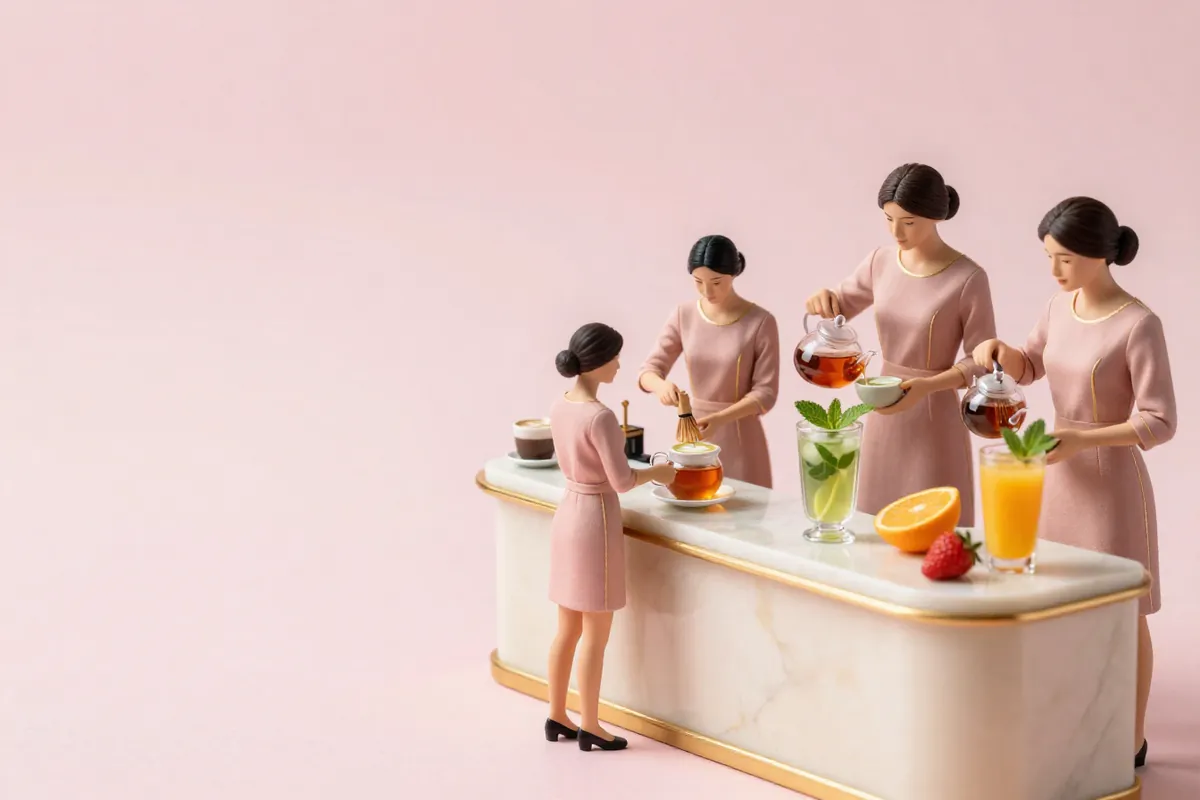
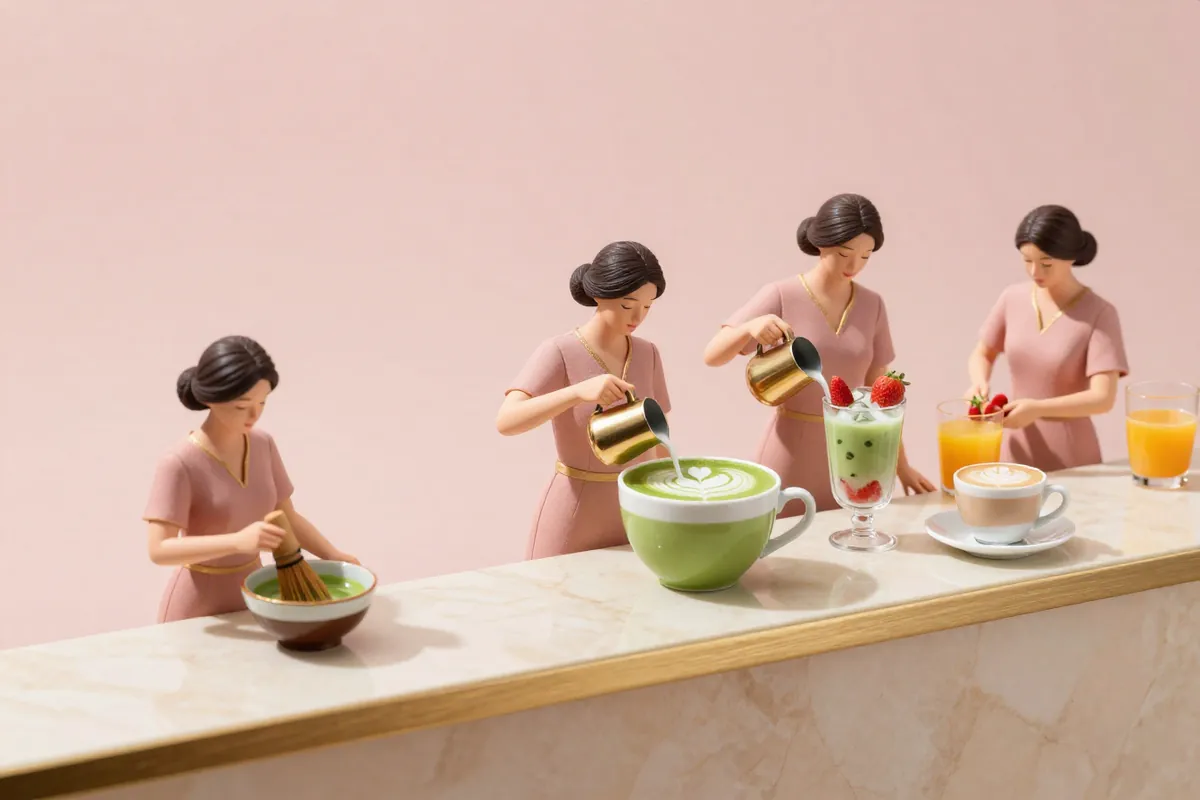
Bar à boissons : nouvelle image avec matcha au premier plan

diff --git a/index.html b/index.html
@@ -994,7 +994,7 @@
     </div>
     <div class="tiles">
       <div class="tile w3 matcha has-shot reveal">
-        <img class="shot" src="assets/img/ritual-drinks.webp" alt="Miniature QAMAR team preparing matcha, tea, lemonade and fresh juice behind a marble drinks bar" width="1200" height="800" loading="lazy" decoding="async">
+        <img class="shot" src="assets/img/ritual-drinks.webp" alt="Miniature QAMAR team whisking matcha and pouring a matcha latte at a marble drinks bar" width="1200" height="800" loading="lazy" decoding="async">
         <span class="k" data-i18n="r1k">Drinks bar</span>
         <h3 data-i18n="r1t">Something for every mood.</h3>
         <p data-i18n="r1p">Matcha latte, iced or strawberry matcha, cappuccino, Arabic coffee with dates, karak tea, fresh mint lemonade, fresh orange juice. While you wait, or in the chair.</p>
